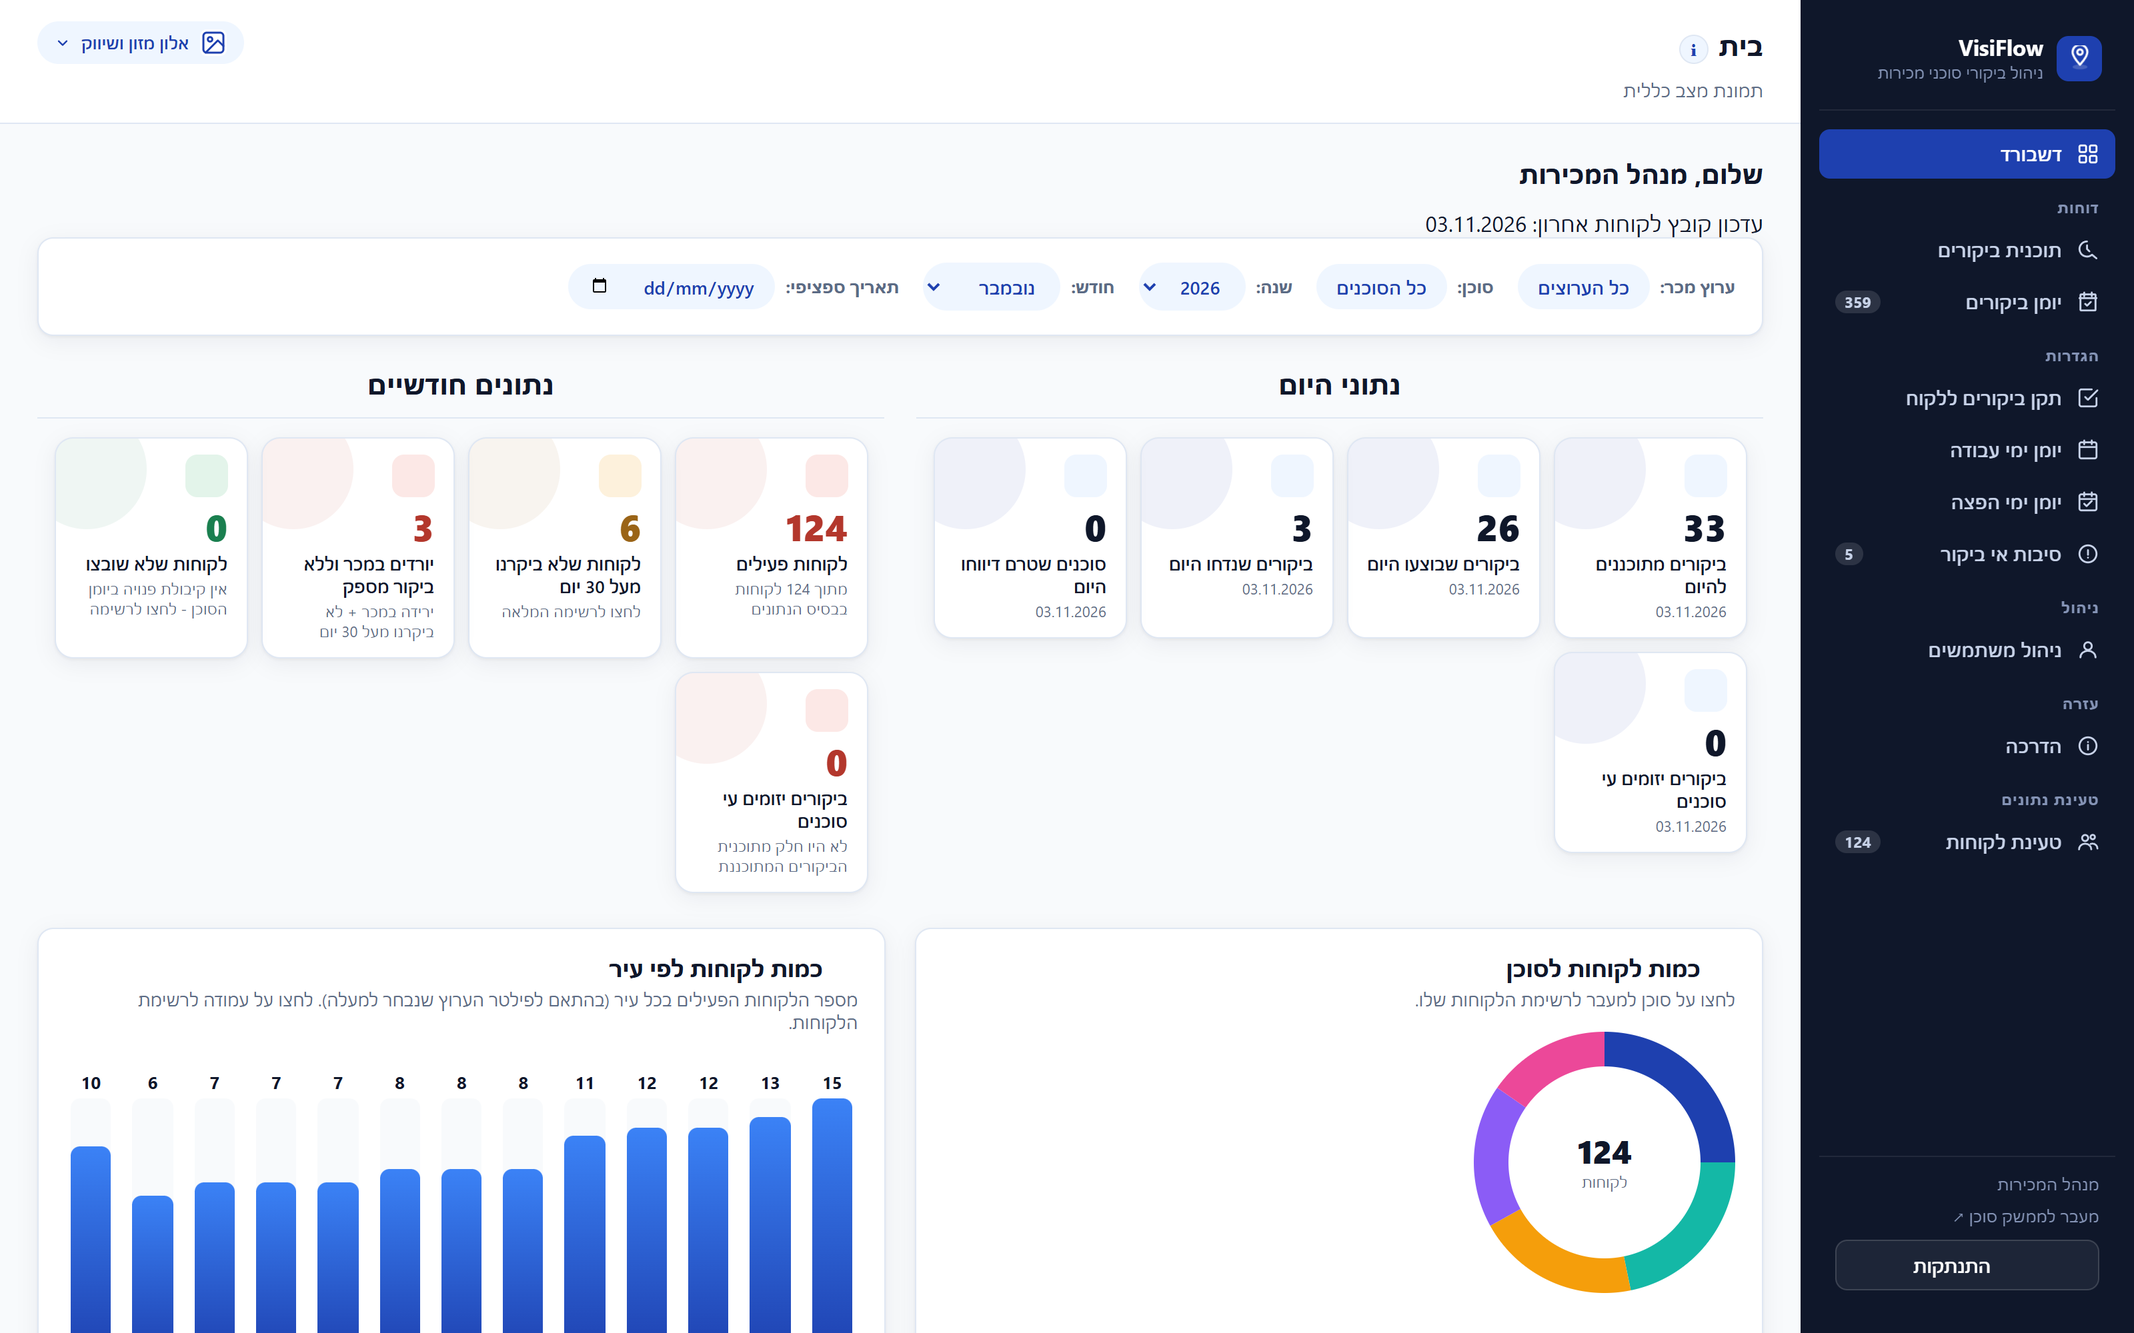
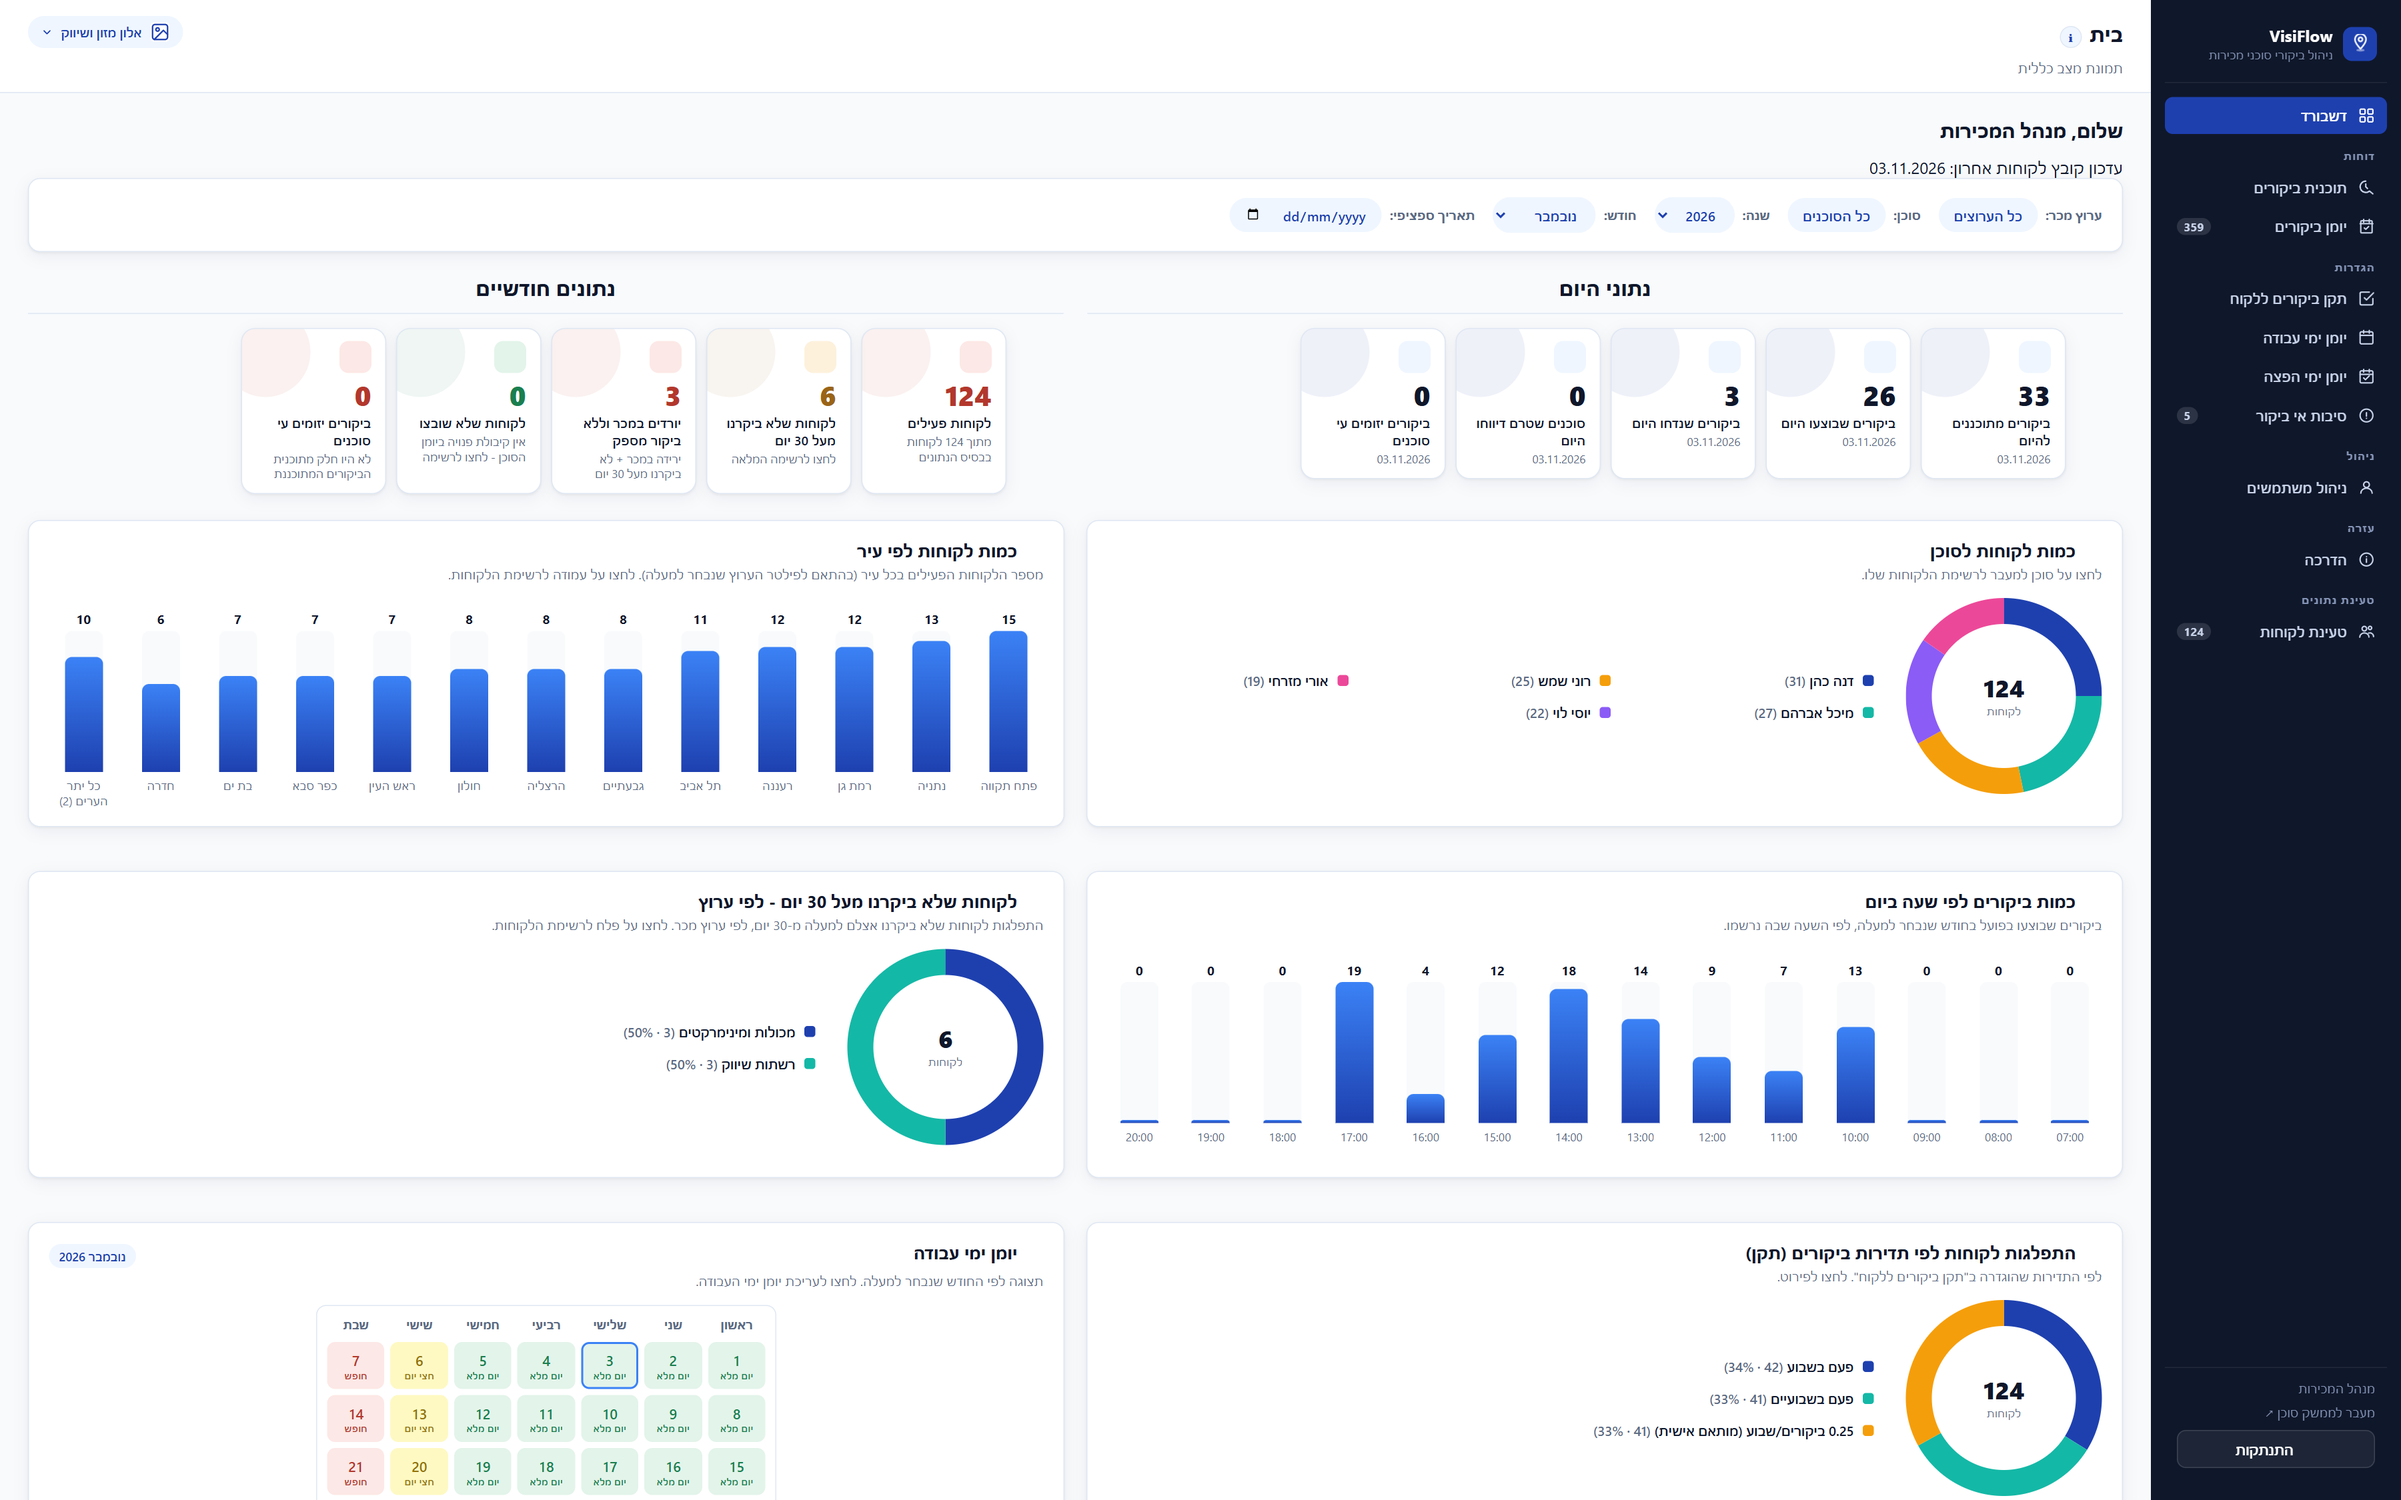
Pitch deck: brand theme (Rubik/Assistant, blue palette), wide dashboard capture so KPI cards stay on one row

diff --git a/presentation/visiflow-pitch.html b/presentation/visiflow-pitch.html
@@ -4,6 +4,9 @@
 <meta charset="utf-8">
 <meta name="viewport" content="width=device-width, initial-scale=1">
 <title>VisiFlow - מצגת ללקוחות</title>
+<link rel="preconnect" href="https://fonts.googleapis.com">
+<link rel="preconnect" href="https://fonts.gstatic.com" crossorigin>
+<link rel="stylesheet" href="https://fonts.googleapis.com/css2?family=Assistant:wght@400;600;700;800&family=Rubik:wght@500;700;800;900&display=swap">
 <style>
   :root {
     --navy: #0b1226;
@@ -19,7 +22,8 @@
     --muted: #9db3d6;
     --card: rgba(255,255,255,0.07);
     --card-border: rgba(147,197,253,0.22);
-    --font: "Segoe UI", Arial, "Noto Sans Hebrew", sans-serif;
+    --font: "Assistant", "Segoe UI", Arial, sans-serif;
+    --head: "Rubik", "Segoe UI", Arial, sans-serif;
   }
   * { box-sizing: border-box; margin: 0; padding: 0; }
   html, body { height: 100%; background: #060b19; overflow: hidden; font-family: var(--font); color: var(--text); }
@@ -189,10 +193,10 @@
 
   /* ---------- real screenshots ---------- */
   .browser { background: #0c1630; border: 1px solid rgba(147,197,253,.35); border-radius: 14px; overflow: hidden; box-shadow: 0 30px 80px rgba(0,0,0,.55), 0 0 70px rgba(37,99,235,.35); position: relative; }
-  .browser .bar { height: 26px; background: linear-gradient(#1b2b52, #14213f); display: flex; align-items: center; gap: 6px; padding: 0 12px; direction: ltr; }
-  .browser .bar i { width: 9px; height: 9px; border-radius: 50%; background: #3b4d78; }
-  .browser .bar i:nth-child(1) { background: #f0968a; } .browser .bar i:nth-child(2) { background: #e3b563; } .browser .bar i:nth-child(3) { background: #6fd39c; }
-  .browser .bar span { white-space: nowrap; margin-inline-start: 10px; font-size: 11px; color: #8da4cf; background: rgba(255,255,255,.07); padding: 2px 14px; border-radius: 99px; }
+  .browser .chrome { height: 26px; background: linear-gradient(#1b2b52, #14213f); display: flex; align-items: center; gap: 6px; padding: 0 12px; direction: ltr; }
+  .browser .chrome i { width: 9px; height: 9px; border-radius: 50%; background: #3b4d78; }
+  .browser .chrome i:nth-child(1) { background: #f0968a; } .browser .chrome i:nth-child(2) { background: #e3b563; } .browser .chrome i:nth-child(3) { background: #6fd39c; }
+  .browser .chrome span { white-space: nowrap; margin-inline-start: 10px; font-size: 11px; color: #8da4cf; background: rgba(255,255,255,.07); padding: 2px 14px; border-radius: 99px; }
   .browser .view { position: relative; overflow: hidden; background: #f8fafc; }
   .browser .view img { position: absolute; display: block; max-width: none; }
   .browser .view img.full { position: static; width: 100%; }
@@ -242,6 +246,62 @@
   #topbar { position: absolute; top: 0; inset-inline: 0; height: 4px; background: rgba(147,197,253,.12); z-index: 6; }
   #topbar i { display: block; height: 100%; width: 0; background: linear-gradient(90deg, #60a5fa, #3b82f6); transition: width .5s ease; margin-inline-start: auto; }
   @media (prefers-reduced-motion: reduce) { *, *::before, *::after { animation-duration: .01s !important; animation-delay: 0s !important; } }
+
+  /* ---------- brand theme: Rubik headings, Assistant body, blue palette ---------- */
+  body, .btn { font-family: var(--font); }
+  h1, h2, h3, h4, .logo, .big, .v, .tile .v, .compare .big, .cta h3, .btn, .tag b, .chart-title { font-family: var(--head); }
+  h1, h2 { font-weight: 800; }
+  .slide.dark {
+    --text: #ffffff; --ice: #CFE3FF; --muted: #A9C9F7; --sky: #6EB0FF; --mist: #EAF2FF;
+    --card: rgba(255,255,255,.09); --card-border: rgba(110,176,255,.32);
+    background: radial-gradient(760px 520px at 88% 8%, rgba(110,176,255,.30), rgba(110,176,255,0) 62%), linear-gradient(135deg, #08234F 0%, #0F3D82 100%);
+    color: #fff;
+  }
+  .slide.light {
+    --text: #0A2142; --ice: #425D7C; --muted: #425D7C; --sky: #1B5FC9; --mist: #0F3F94;
+    --card: #ffffff; --card-border: #D3E2F6;
+    background: #EAF1FA; color: #0A2142;
+  }
+  .slide { transition-duration: .35s; }
+  .slide.light .card { box-shadow: 0 10px 30px rgba(15,63,148,.10); backdrop-filter: none; }
+  .slide.light .eyebrow { background: #fff; border-color: #BBD6F8; color: #1B5FC9; }
+  .slide.dark .eyebrow { background: rgba(110,176,255,.14); border-color: rgba(110,176,255,.4); color: #6EB0FF; }
+  .slide.light .grad { background-image: linear-gradient(90deg, #1B5FC9, #2B70D8); }
+  .slide.dark .grad { background-image: linear-gradient(90deg, #BBD6F8, #6EB0FF); }
+  .slide.light .chip { background: #fff; border-color: #BBD6F8; color: #0F3F94; }
+  .slide.light .stepv .n, .slide.light .step .n { color: rgba(27,95,201,.13); }
+  .slide.light .stepv .ic, .slide.light .feat .ic { background: #DCE9FB; }
+  .slide.light .compare .old .big { color: #8AA0BD; }
+  .slide.light .compare .new .big { color: #1B5FC9; }
+  .slide.light .bars { border-bottom-color: rgba(15,63,148,.22); }
+  .slide.light .bars .cap { border-top-color: #2B70D8; }
+  .slide.light .bar.before { background: linear-gradient(#BBD6F8, #9DC2F1); }
+  .slide.light .bar.after { background: linear-gradient(#2B70D8, #0F3F94); box-shadow: 0 8px 18px rgba(15,63,148,.28); }
+  .slide.light .bar::after { color: #0A2142; }
+  .slide.light .tag { background: #fff; color: #0A2142; border-color: #BBD6F8; box-shadow: 0 10px 26px rgba(15,63,148,.18); backdrop-filter: none; }
+  .slide.light .tag b { color: #1B5FC9; }
+  .slide.dark .tag { background: rgba(8,35,79,.88); }
+  .slide.light .browser { border-color: #BBD6F8; box-shadow: 0 26px 60px rgba(15,63,148,.24); }
+  .slide.light .browser .chrome { background: linear-gradient(#F3F8FF, #DCE9FB); }
+  .slide.light .browser .chrome span { color: #425D7C; background: rgba(15,63,148,.07); }
+  .slide.light .caps span { background: #fff; border-color: #BBD6F8; color: #0F3F94; }
+  .slide.light .phone-shot { box-shadow: 0 26px 54px rgba(15,63,148,.38); }
+  .slide.light .sec-caption, .slide.light .note { color: #425D7C; }
+  .tile .v { background-image: linear-gradient(180deg, #ffffff, #6EB0FF); }
+  .btn { color: #0F3F94; }
+  .cta { background: linear-gradient(100deg, rgba(27,95,201,.65), rgba(15,63,148,.45)); border-color: rgba(110,176,255,.45); }
+
+  /* navigation chrome follows the slide's theme */
+  .arrows button { background: #0F3F94; border-color: rgba(255,255,255,.22); color: #fff; opacity: 1; }
+  .arrows button:hover { background: #1B5FC9; }
+  .arrows { opacity: .95; }
+  #topbar i { background: #6EB0FF; }
+  #stage.on-light #topbar { background: rgba(15,63,148,.12); }
+  #stage.on-light #topbar i { background: #1B5FC9; }
+  #stage.on-light #nav button.dot-b { background: rgba(15,63,148,.25); }
+  #stage.on-light #nav button.dot-b.on { background: #1B5FC9; }
+  #stage.on-light .hint { color: rgba(66,93,124,.75); }
+  #nav button.dot-b.on { background: #6EB0FF; }
 </style>
 </head>
 <body>
@@ -250,7 +310,7 @@
   <div id="topbar"><i></i></div>
 
   <!-- ============ 1. HERO ============ -->
-  <section class="slide s1 active" data-i="0">
+  <section class="slide dark s1 active" data-i="0">
     <div class="copy">
       <div class="logo a" style="--d:.05"><div class="mark"><svg width="24" height="24" viewBox="0 0 24 24" fill="none" stroke="white" stroke-width="2.4" stroke-linecap="round" stroke-linejoin="round"><circle cx="6" cy="18" r="2.5"/><circle cx="18" cy="6" r="2.5"/><path d="M8.5 18H14a3 3 0 0 0 0-6h-4a3 3 0 0 1 0-6h5.5"/></svg></div>VisiFlow</div>
       <div class="eyebrow a" style="--d:.15"><i></i>ניהול ביקורי מכירות חכם</div>
@@ -264,7 +324,7 @@
       </div>
     </div>
     <div class="visual a pop" style="--d:.35;position:relative;height:auto">
-      <div class="tilt float"><div class="browser"><div class="bar"><i></i><i></i><i></i><span>app.visiflow.io / dashboard</span></div><div class="view"><img class="full" src="img/dash-top.png" alt="דשבורד VisiFlow"></div></div></div>
+      <div class="tilt float"><div class="browser"><div class="chrome"><i></i><i></i><i></i><span>app.visiflow.io / dashboard</span></div><div class="view"><img class="full" src="img/dash-top.png" alt="דשבורד VisiFlow"></div></div></div>
       <div class="tag a pop" style="--d:1.6;top:-20px;inset-inline-start:-6px"><span class="dot"></span> ביצוע בזמן אמת</div>
       <div class="tag a pop" style="--d:2.1;top:150px;inset-inline-start:-40px"><b>124</b> לקוחות · <b>5</b> סוכנים</div>
       <div class="phone-shot a pop float" style="--d:1.2;position:absolute;width:150px;bottom:-84px;inset-inline-end:-18px;border-radius:24px;padding:6px;transform:rotate(4deg)"><div class="scr" style="border-radius:18px;height:230px"><img src="img/agent-list.png" alt="אפליקציית הסוכן"></div></div>
@@ -272,7 +332,7 @@
   </section>
 
   <!-- ============ 2. HOW IT WORKS ============ -->
-  <section class="slide s2" data-i="1">
+  <section class="slide light s2" data-i="1">
     <div class="col1">
       <div class="eyebrow a" style="--d:.05;align-self:flex-start"><i></i>איך זה עובד</div>
       <h2 class="a" style="--d:.15;font-size:38px">מקובץ אקסל לתוכנית עבודה מלאה <span class="grad">תוך שניות.</span></h2>
@@ -289,7 +349,7 @@
     </div>
     <div class="col2">
       <div class="a pop" style="--d:.5;position:relative">
-        <div class="browser"><div class="bar"><i></i><i></i><i></i><span>תוכנית ביקורים · נובמבר 2026</span></div>
+        <div class="browser"><div class="chrome"><i></i><i></i><i></i><span>תוכנית ביקורים · נובמבר 2026</span></div>
           <div class="view" data-crop="3200,2000,880,805,1810,940"><img src="img/plan.png" alt="תוכנית ביקורים"></div></div>
         <div class="tag a pop" style="--d:1.5;top:-20px;inset-inline-end:20px"><span class="dot"></span> 250 ביקורים נוצרו אוטומטית</div>
       </div>
@@ -298,7 +358,7 @@
   </section>
 
   <!-- ============ 3. OPTIMIZATION ============ -->
-  <section class="slide s3" data-i="2">
+  <section class="slide light s3" data-i="2">
     <div class="left">
       <div class="eyebrow a" style="--d:.05;align-self:flex-start"><i></i>אופטימיזציה</div>
       <h2 class="a" style="--d:.15">יותר ביקורים,<br><span class="grad">פחות קילומטרים.</span></h2>
@@ -307,7 +367,7 @@
       <div class="feat card a" style="--d:.85"><div class="ic">⚖</div><div><h4>איזון עומסים וקיבולת</h4><p>מגבלת ביקורים יומית לכל סוכן ולכל ערוץ - אף סוכן לא קורס ואף יום לא נשאר ריק.</p></div></div>
     </div>
     <div class="right card a" style="--d:.5">
-      <div class="chart-title"><span>ביקורים לפי יום - סוכן לדוגמה</span><span class="legend"><span><i style="background:#64748b"></i>לפני</span><span><i style="background:#3b82f6"></i>עם VisiFlow</span><span><i style="background:transparent;border-top:2px dashed #e3b563;height:0;border-radius:0;vertical-align:3px"></i>קיבולת יומית</span></span></div>
+      <div class="chart-title"><span>ביקורים לפי יום - סוכן לדוגמה</span><span class="legend"><span><i style="background:#BBD6F8"></i>לפני</span><span><i style="background:#1B5FC9"></i>עם VisiFlow</span><span><i style="background:transparent;border-top:2px dashed #2B70D8;height:0;border-radius:0;vertical-align:3px"></i>קיבולת יומית</span></span></div>
       <div class="bars">
         <div class="cap"></div>
         <div class="day"><div class="bar before" style="--d:1;height:68%" data-v="17"></div><div class="bar after" style="--d:1.15;height:46%" data-v="12"></div><span class="lbl">א׳</span></div>
@@ -321,13 +381,13 @@
   </section>
 
   <!-- ============ 4. AGENTS + MANAGEMENT ============ -->
-  <section class="slide s4" data-i="3">
+  <section class="slide light s4" data-i="3">
     <div class="right" style="flex:1;min-width:0">
       <div class="eyebrow a" style="--d:.05"><i></i>ניהול הסוכנים</div>
       <h2 class="a" style="--d:.15;font-size:40px">שליטה בשטח, <span class="grad">שקיפות בהנהלה.</span></h2>
       <div class="a pop" style="--d:.55;margin-top:20px;position:relative">
-        <div class="browser"><div class="bar"><i></i><i></i><i></i><span>דשבורד מנהל</span></div>
-          <div class="view" data-crop="3200,3800,0,560,2640,1420"><img src="img/dash-tall.png" alt="דשבורד"></div></div>
+        <div class="browser"><div class="chrome"><i></i><i></i><i></i><span>דשבורד מנהל</span></div>
+          <div class="view" data-crop="3600,2250,1600,398,1620,872"><img src="img/dash-top.png" alt="דשבורד"></div></div>
         <div class="tag a pop" style="--d:1.6;top:-16px;inset-inline-start:-14px"><b>26</b> ביקורים בוצעו היום</div>
       </div>
       <div class="caps a" style="--d:1.2"><span>✓ ביקרתי / לא ביקרתי + סיבה</span><span>🧭 ניווט ב-Waze</span><span>↔ הזזת ביקור</span><span>💰 חוב וצ'קים</span></div>
@@ -341,7 +401,7 @@
   </section>
 
   <!-- ============ 5. VALUE + CTA ============ -->
-  <section class="slide s5" data-i="4">
+  <section class="slide dark s5" data-i="4">
     <div class="eyebrow a" style="--d:.05;align-self:flex-start"><i></i>הערך לארגון</div>
     <h2 class="a" style="--d:.15">מערכת אחת. <span class="grad">תוצאות שרואים בדוח.</span></h2>
     <div class="tiles">
@@ -419,6 +479,7 @@
     slides.forEach(function (s, k) { s.classList.toggle("active", k === i); });
     nav.querySelectorAll(".dot-b").forEach(function (b, k) { b.classList.toggle("on", k === i); });
     bar.style.width = ((i + 1) / slides.length * 100) + "%";
+    stage.classList.toggle("on-light", slides[i].classList.contains("light"));
     if (i !== cur || !go.init) countUp(slides[i]);
     go.init = true; cur = i;
     try { history.replaceState(null, "", "#" + (i + 1)); } catch (e) {}
